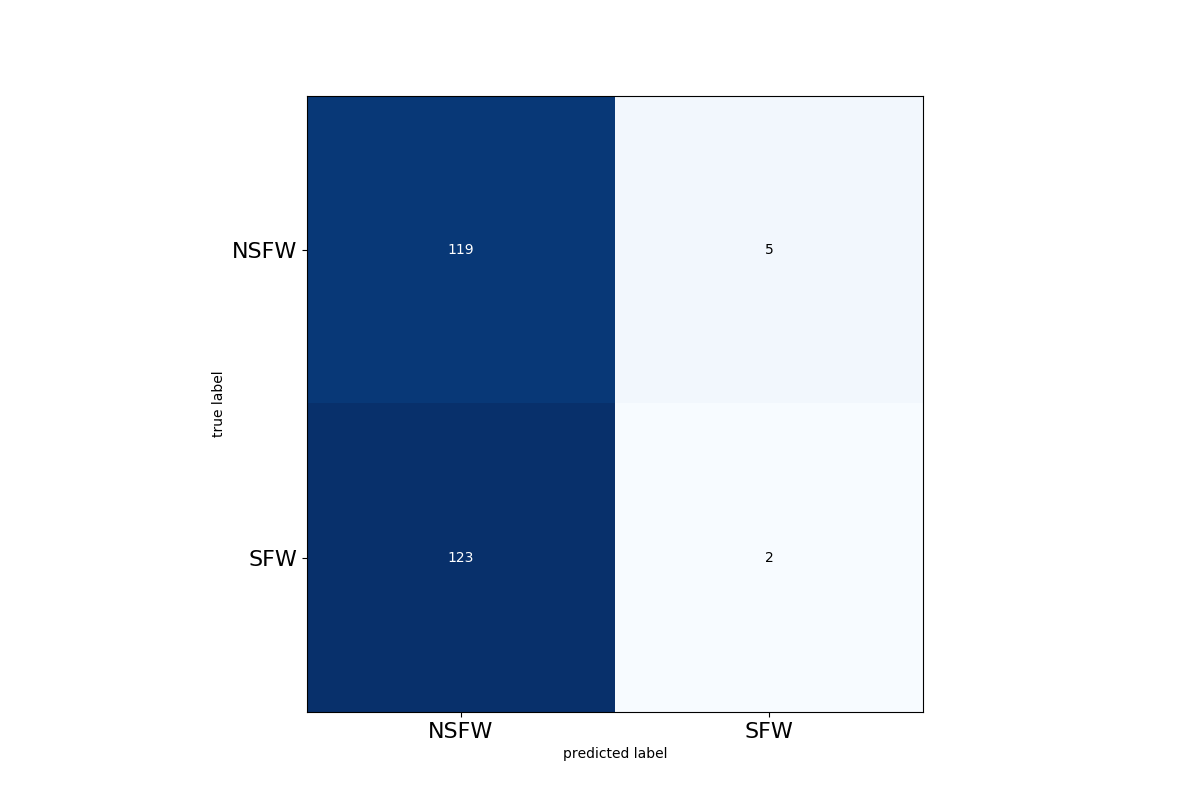
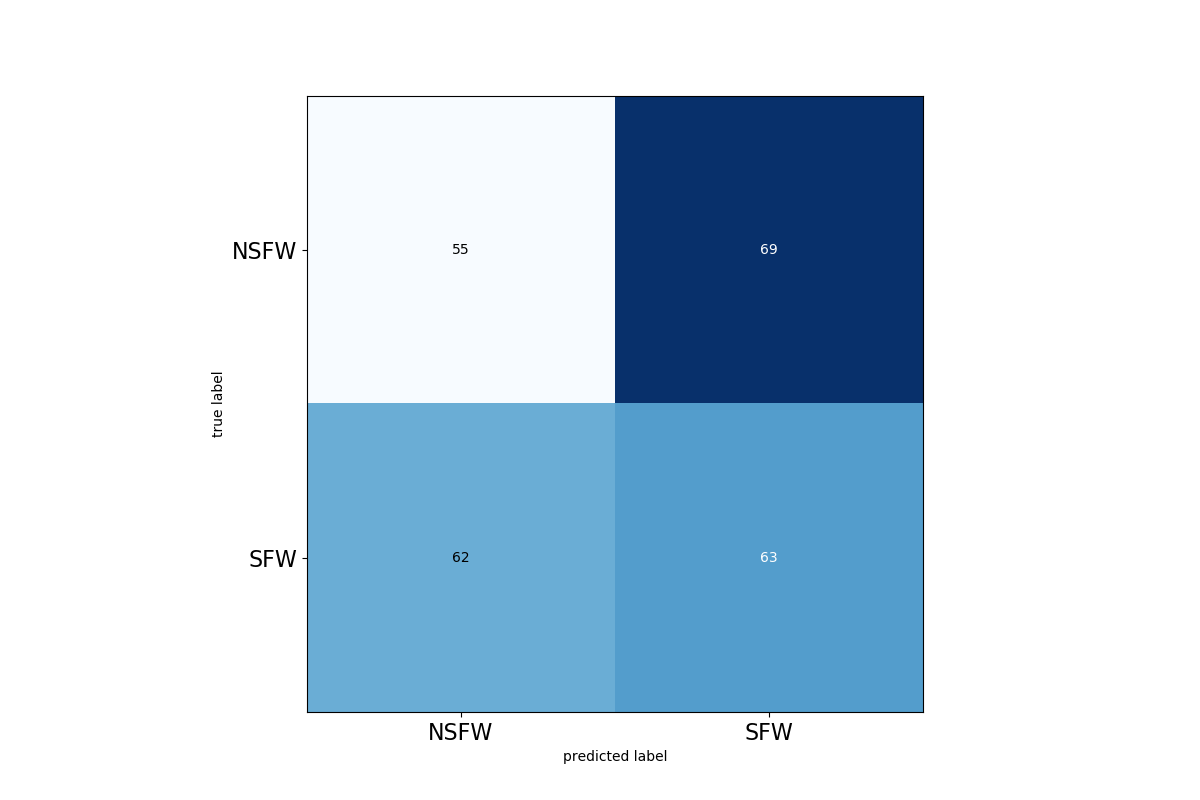
Fix

diff --git a/nsfw_classification/train_classifier.py b/nsfw_classification/train_classifier.py
@@ -11,9 +11,10 @@ from keras.preprocessing.image import load_img, img_to_array
 from mlxtend.plotting import plot_confusion_matrix
 from sklearn.metrics import confusion_matrix
 from tensorflow_core.python.keras.models import load_model
+from tensorflow.keras.utils import plot_model
 
-IMG_HEIGHT = 255
-IMG_WIDTH = 255
+IMG_HEIGHT = 224
+IMG_WIDTH = 224
 
 BATCH_SIZE = 64
 
@@ -78,32 +79,22 @@ def train():
         MaxPooling2D(),
         Conv2D(32, 3, padding='same', activation='relu'),
         MaxPooling2D(),
-        # BatchNormalization(),
-        # Conv2D(64, 3, padding='same', activation='relu'),
-        # MaxPooling2D(),
         Flatten(),
         Dense(128, activation='relu'),
         Dense(1, activation='sigmoid')
     ])
 
-    # model = Sequential({
-    #     DenseNet121(weights='imagenet', include_top=False, input_shape=(IMG_HEIGHT, IMG_WIDTH, 3)),
-    #     Flatten(),
-    #     Dense(1, activation='sigmoid')
-    # })
-
     model.compile(optimizer='adam',
                   loss='binary_crossentropy',
                   metrics=['accuracy'])
-
-    # model.summary()
 
     history = model.fit_generator(
         train_data_gen,
         steps_per_epoch=total_train // BATCH_SIZE,
         epochs=EPOCHS,
         validation_data=val_data_gen,
-        validation_steps=total_val // BATCH_SIZE
+        validation_steps=total_val // BATCH_SIZE,
+        verbose=2
     )
 
     acc = history.history['accuracy']
@@ -150,25 +141,24 @@ def plot(model):
     plot_confusion_matrix(cm, figsize=(12, 8), hide_ticks=True)
     plt.xticks(range(2), ['NSFW', 'SFW'], fontsize=16)
     plt.yticks(range(2), ['NSFW', 'SFW'], fontsize=16)
-    # st.map(plt)
     plt.savefig("matrix.png")
     plt.show()
 
 
 def predict(model1, file):
-    img_width, img_height = 300, 300
+    img_width, img_height = 224, 224
     x = load_img(file, target_size=(img_width, img_height))
     x = img_to_array(x)
     x = np.expand_dims(x, axis=0)
     array = model1.predict(x)
     result = array[0]
-    # print(result)
     answer = np.argmax(result)
     return answer
 
 
 if __name__ == '__main__':
     model = train()
-    model.save("../streamlit_web/models/nfsw.h5")
-    model = load_model("../streamlit_web/models/nfsw.h5")
+    model.save("../streamlit_web/models/nsfw.h5")
+    model = load_model("../streamlit_web/models/nsfw.h5")
+    plot_model(model, to_file='model.png', show_shapes=True)
     plot(model)

diff --git a/email/email_spam.py b/email/email_spam.py
@@ -18,15 +18,9 @@ import numpy as np
 
 def recall_threshold(threshold = 0.5):
     def recall(y_true, y_pred):
-        """Recall metric.
-        Computes the recall over the whole batch using threshold_value.
-        """
         threshold_value = threshold
-        # Adaptation of the "round()" used before to get the predictions. Clipping to make sure that the predicted raw values are between 0 and 1.
         y_pred = K.cast(K.greater(K.clip(y_pred, 0, 1), threshold_value), K.floatx())
-        # Compute the number of true positives. Rounding in prevention to make sure we have an integer.
         true_positives = K.round(K.sum(K.clip(y_true * y_pred, 0, 1)))
-        # Compute the number of positive targets.
         possible_positives = K.sum(K.clip(y_true, 0, 1))
         recall_ratio = true_positives / (possible_positives + K.epsilon())
         return recall_ratio
@@ -87,35 +81,25 @@ model.compile(loss='binary_crossentropy', optimizer=RMSprop(), metrics=['acc', r
 history = model.fit(sequences_matrix, Y_train, batch_size=128, epochs=10,
                     validation_data=(test_sequences_matrix, Y_test),
                     verbose=2,
-                    # callbacks=[csv_logger, mc, early_stop]
+                    callbacks=[csv_logger, mc, early_stop]
                     )
 
 
 model.save('spam.h5')
 
-# print(model.predict(test_sequences_matrix[:10]))
+e = model.layers[0]
+weights = e.get_weights()[0]
 
-# path_model = os.path.join('spam.h5')
-# model = tf.keras.models.load_model(path_model)
-#
-#
-# print(Y_test[:20])
-#
-# print(model.predict(test_sequences_matrix[:20]))
+out_v = io.open('vecs.tsv', 'w', encoding='utf-8')
+out_m = io.open('meta.tsv', 'w', encoding='utf-8')
 
-# e = model.layers[0]
-# weights = e.get_weights()[0]
-#
-# out_v = io.open('vecs.tsv', 'w', encoding='utf-8')
-# out_m = io.open('meta.tsv', 'w', encoding='utf-8')
-#
-# words = list(vocab)
-# for num, word in enumerate(words):
-#     vec = weights[num]
-#     out_m.write(word + "\n")
-#     out_v.write('\t'.join([str(x) for x in vec]) + "\n")
-# out_v.close()
-# out_m.close()
+words = list(vocab)
+for num, word in enumerate(words):
+    vec = weights[num]
+    out_m.write(word + "\n")
+    out_v.write('\t'.join([str(x) for x in vec]) + "\n")
+out_v.close()
+out_m.close()
 
 # Plot training and test acc and loss
 # summarize history for accuracy

diff --git a/malware/statistics_malware.py b/malware/statistics_malware.py
@@ -16,9 +16,7 @@ csv_path = os.path.join('Dataset/dataset.csv')
 path_model_malware = os.path.join("results/malware_all.h5")
 model = tf.keras.models.load_model(path_model_malware, compile=False)
 
-
-# plot_model(model, to_file='model.png', show_shapes=True)
-# exit()
+plot_model(model, to_file='model.png', show_shapes=True)
 
 labels = []
 data = []
